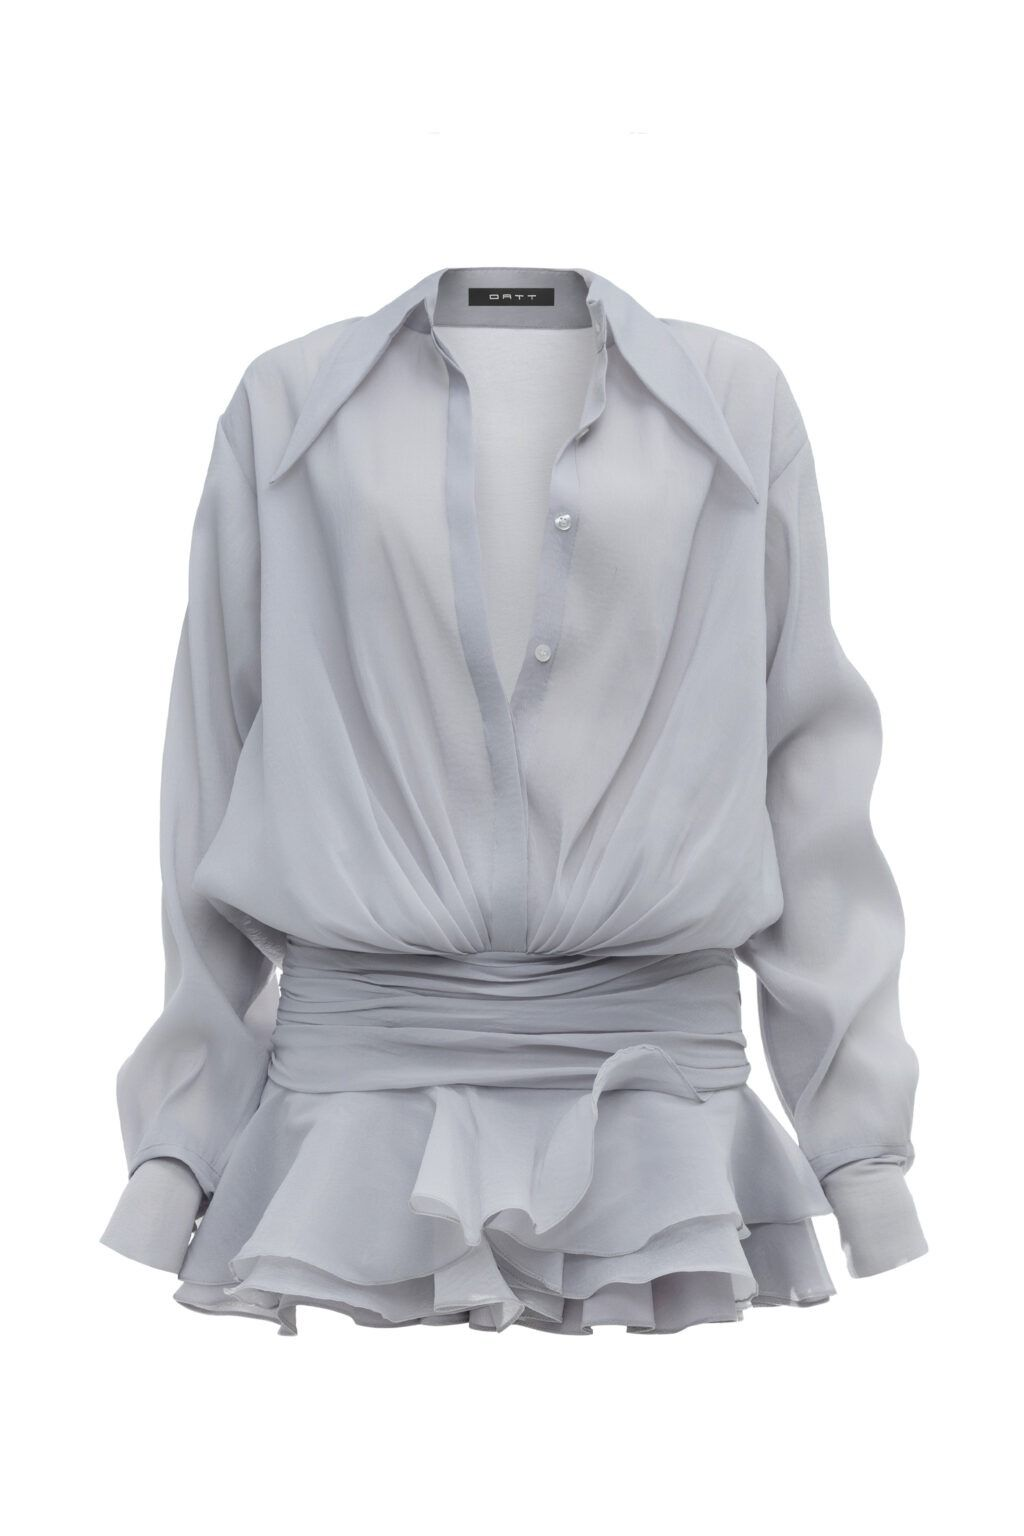
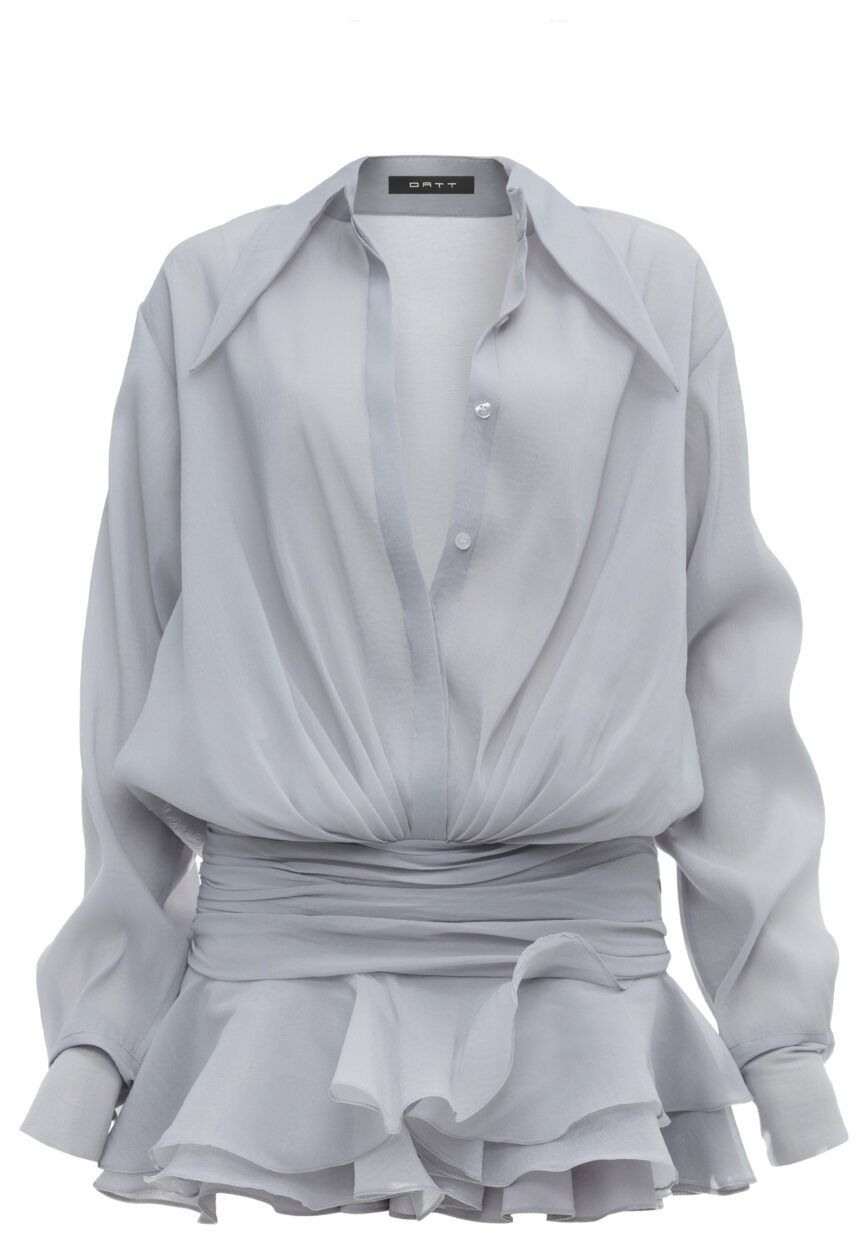
обрезать белые поля у платья-рубашки и обновить описание и фон

diff --git a/index.html b/index.html
@@ -375,8 +375,10 @@ h1, h2, h3, .serif { font-family: var(--font-serif); font-weight: 500; line-heig
 /* платье: тоже показываем вещь целиком */
 .category-card__photo img[src="dresses.jpg"] { object-fit: contain; }
 
-/* корсетное платье в разделе «Платья»: вещь целиком, белый фон снимка растворяется в розовый */
-.card__photo img[src="dress-corset.jpg"], .card__photo img[src="dress-volany.jpg"], .card__photo img[src="dress-shirt.jpg"] { object-fit: contain; mix-blend-mode: multiply; }
+/* платья раздела «Платья»: вещь целиком, белый фон снимка растворяется в розовый */
+.card__photo img[src="dress-corset.jpg"], .card__photo img[src="dress-volany.jpg"] { object-fit: contain; mix-blend-mode: multiply; }
+/* платье-рубашка: обрезаны белые поля, заполняет карточку как остальные */
+.card__photo img[src="dress-shirt.jpg"] { object-fit: cover; mix-blend-mode: multiply; }
 
 /* брюки: показываем вещь целиком */
 .category-card__photo img[src="9ce6bdba9d1d812804fd26bbd63a8a39.jpg"] { object-fit: contain; }
@@ -1348,9 +1350,9 @@ h1, h2, h3, .serif { font-family: var(--font-serif); font-weight: 500; line-heig
     '<path d="M10 4a2 2 0 1 1 2 2l-8.9 6.6c-.9.7-.4 2.1.7 2.1h16.4c1.1 0 1.6-1.4.7-2.1L12 6"/></svg>';
 
   const ITEM_OVERRIDES = {
-    'dresses:0': { name: 'Платье с воланами, белое', meta: 'Хлопок · Шелк', price: 7990 },
+    'dresses:0': { name: 'Платье с воланами, белое', meta: 'Хлопок · Шелк', price: 6990 },
     'dresses:1': { name: 'Платье-корсет, серое', meta: 'Атлас · Кружево' },
-    'dresses:2': { name: 'Платье-рубашка с оборкой, серое', meta: 'Вискоза · Атлас' }
+    'dresses:2': { name: 'Платье-рубашка, серое', meta: 'Лен · Вискоза' }
   };
 
   function phCard(title, price, i, photos, catKey) {
